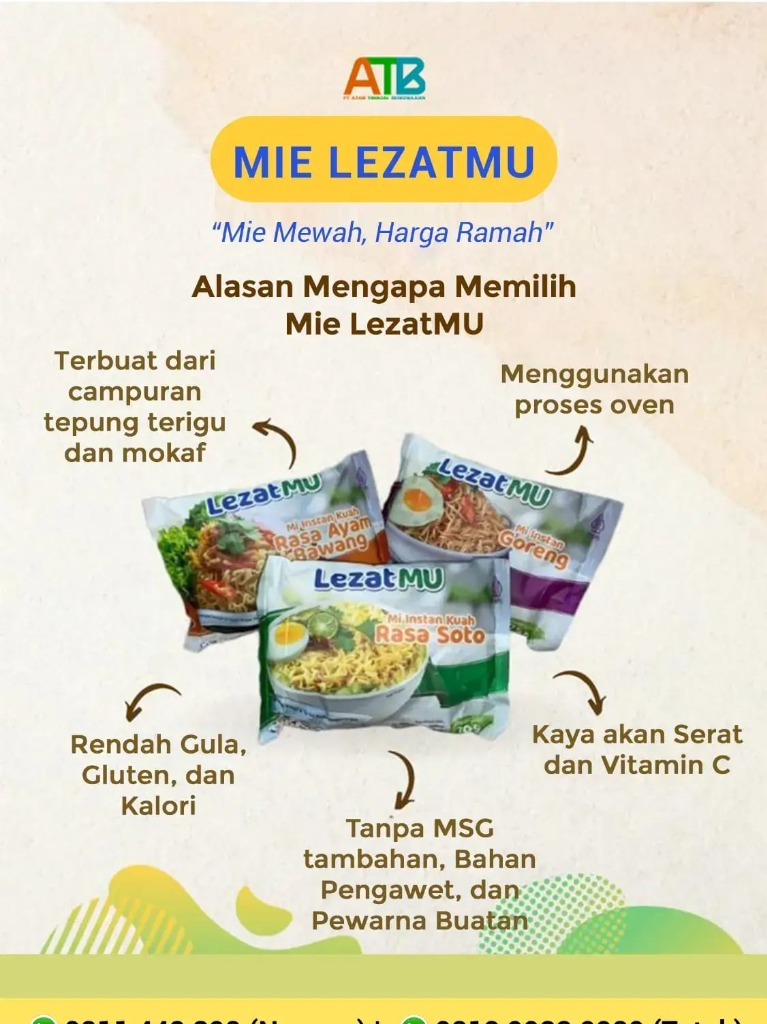
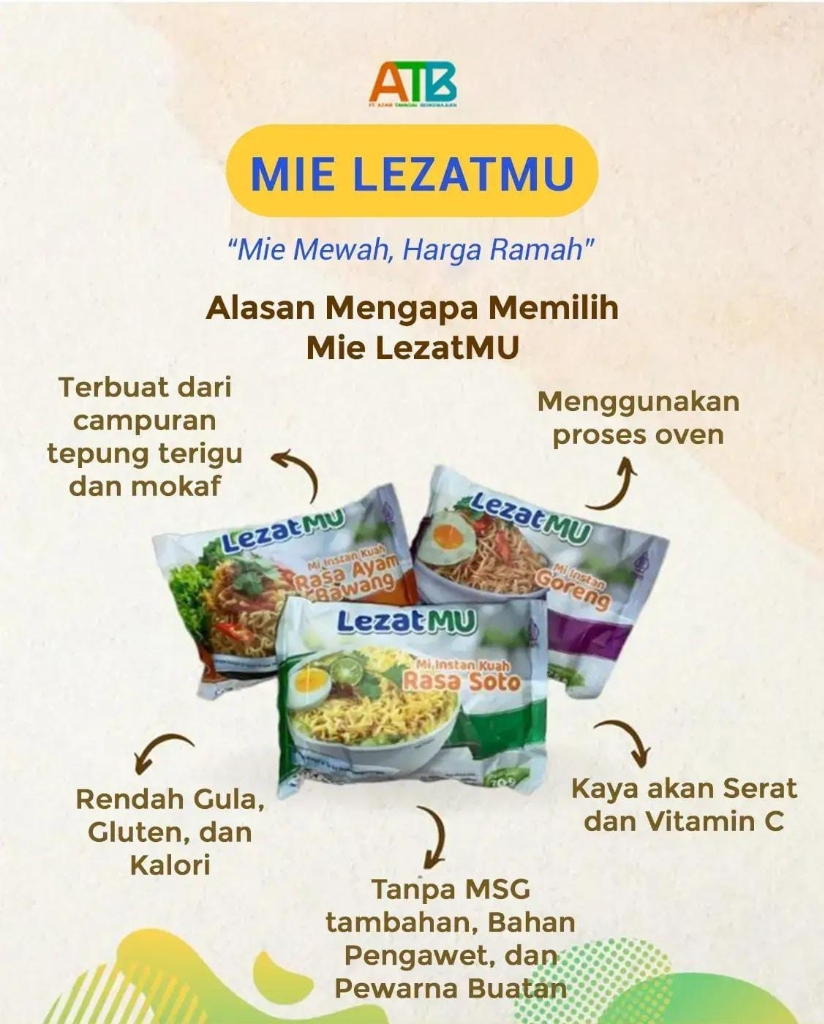
Ganti gambar showcase beranda dengan poster edukasi resmi Mie LezatMU dalam kotak solid rapi berukuran proporsional

diff --git a/index.html b/index.html
@@ -252,26 +252,26 @@
             </div>
           </div>
 
-          <!-- Hero Image (Transparent Glassmorphism Showcase) -->
-          <div class="lg:col-span-5 relative">
-            <div class="relative mx-auto max-w-md lg:max-w-none">
+          <!-- Hero Image (Solid Clean Card Showcase - Ukuran Proporsional & Rapi) -->
+          <div class="lg:col-span-5 relative flex justify-center items-center">
+            <div class="relative w-full max-w-[340px] sm:max-w-[370px] lg:max-w-[390px] mx-auto">
               
-              <!-- Transparent Glassmorphism Card showcasing the image -->
-              <div class="relative rounded-3xl overflow-hidden shadow-2xl border border-white/40 group bg-white/10 backdrop-blur-md p-4 sm:p-5 hover:bg-white/15 transition-all duration-500">
-                <div class="relative rounded-2xl overflow-hidden bg-transparent flex items-center justify-center py-4">
+              <!-- Solid Clean Card (Non-Transparan) -->
+              <div class="relative rounded-3xl overflow-hidden shadow-2xl border-2 border-brand-gold/40 group bg-white p-2.5 sm:p-3 hover:shadow-warm-lg transition-all duration-500">
+                <div class="relative rounded-2xl overflow-hidden bg-brand-cream-soft flex items-center justify-center">
                   <img 
-                    src="images/fitur-alami-lezatmu.png?v=2" 
-                    alt="Tanpa MSG tambahan, Bahan Pengawet, dan Pewarna Buatan - Mi LezatMU" 
-                    class="w-full h-auto max-h-[480px] object-contain rounded-2xl group-hover:scale-105 transition-transform duration-500 drop-shadow-xl"
+                    src="images/keunggulan-mie-lezatmu.jpg?v=4" 
+                    alt="Alasan Mengapa Memilih Mie LezatMU - PT Azzam Tawaqal Berkemajuan" 
+                    class="w-full h-auto max-h-[440px] object-contain rounded-xl group-hover:scale-102 transition-transform duration-500"
                     loading="eager"
                   >
                 </div>
               </div>
 
-              <!-- Floating Transparent Badge 1: 100% Halal & Alami -->
-              <div class="absolute -top-4 -left-4 bg-black/60 backdrop-blur-md px-3.5 py-2.5 rounded-2xl shadow-xl border border-white/30 flex items-center gap-3 animate-bounce-slow text-white">
-                <div class="w-9 h-9 rounded-xl bg-emerald-500/30 flex items-center justify-center text-emerald-400 border border-emerald-400/40">
-                  <i data-lucide="shield-check" class="w-5 h-5"></i>
+              <!-- Floating Badge 1: 100% Halal & Alami -->
+              <div class="absolute -top-3.5 -left-3.5 sm:-top-4 sm:-left-4 bg-brand-brown-dark/95 px-3 py-2 rounded-2xl shadow-xl border border-brand-gold/40 flex items-center gap-2.5 text-white animate-bounce-slow">
+                <div class="w-8 h-8 rounded-xl bg-emerald-500/20 flex items-center justify-center text-emerald-400 border border-emerald-400/30 shrink-0">
+                  <i data-lucide="shield-check" class="w-4 h-4"></i>
                 </div>
                 <div>
                   <div class="text-xs font-bold text-white">100% Halal &amp; Alami</div>
@@ -279,10 +279,10 @@
                 </div>
               </div>
 
-              <!-- Floating Transparent Badge 2: Inovasi Mi Sehat BUMM -->
-              <div class="absolute -bottom-5 -right-4 bg-black/60 backdrop-blur-md px-3.5 py-2.5 rounded-2xl shadow-xl border border-white/30 flex items-center gap-3 text-white">
-                <div class="w-9 h-9 rounded-xl bg-amber-500/30 flex items-center justify-center text-amber-400 border border-amber-400/40">
-                  <i data-lucide="sparkles" class="w-5 h-5"></i>
+              <!-- Floating Badge 2: Inovasi Mi Sehat BUMM -->
+              <div class="absolute -bottom-4 -right-3.5 sm:-bottom-4 sm:-right-4 bg-brand-brown-dark/95 px-3 py-2 rounded-2xl shadow-xl border border-brand-gold/40 flex items-center gap-2.5 text-white">
+                <div class="w-8 h-8 rounded-xl bg-amber-500/20 flex items-center justify-center text-amber-400 border border-amber-400/30 shrink-0">
+                  <i data-lucide="sparkles" class="w-4 h-4"></i>
                 </div>
                 <div>
                   <div class="text-xs font-bold text-white">Inovasi Mi Sehat BUMM</div>
